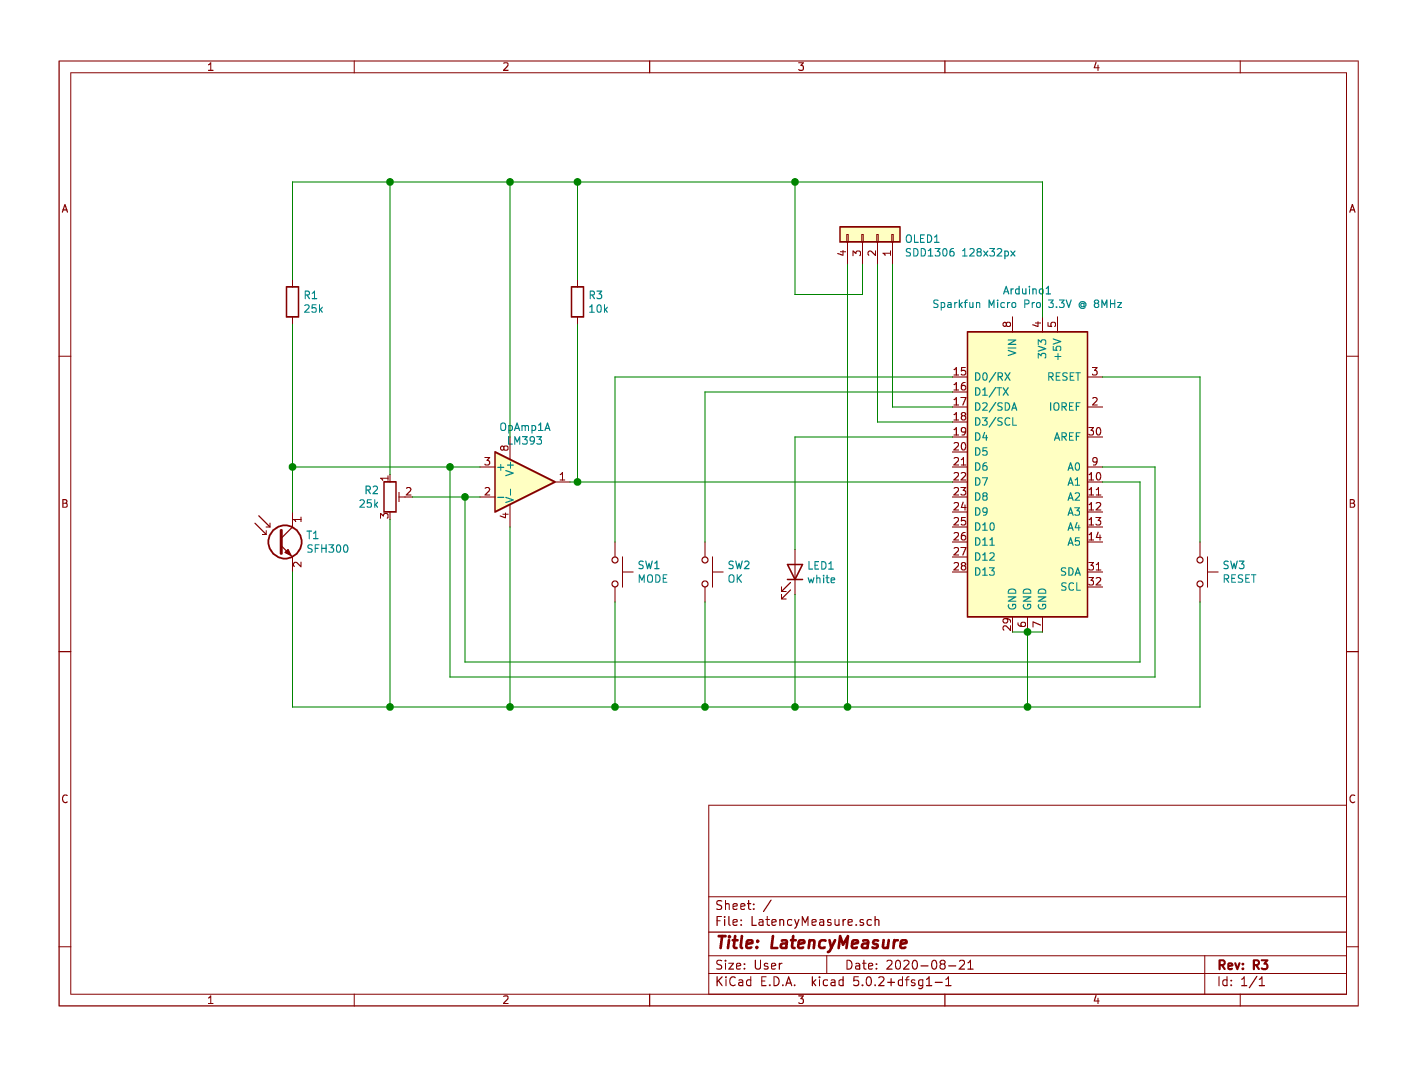
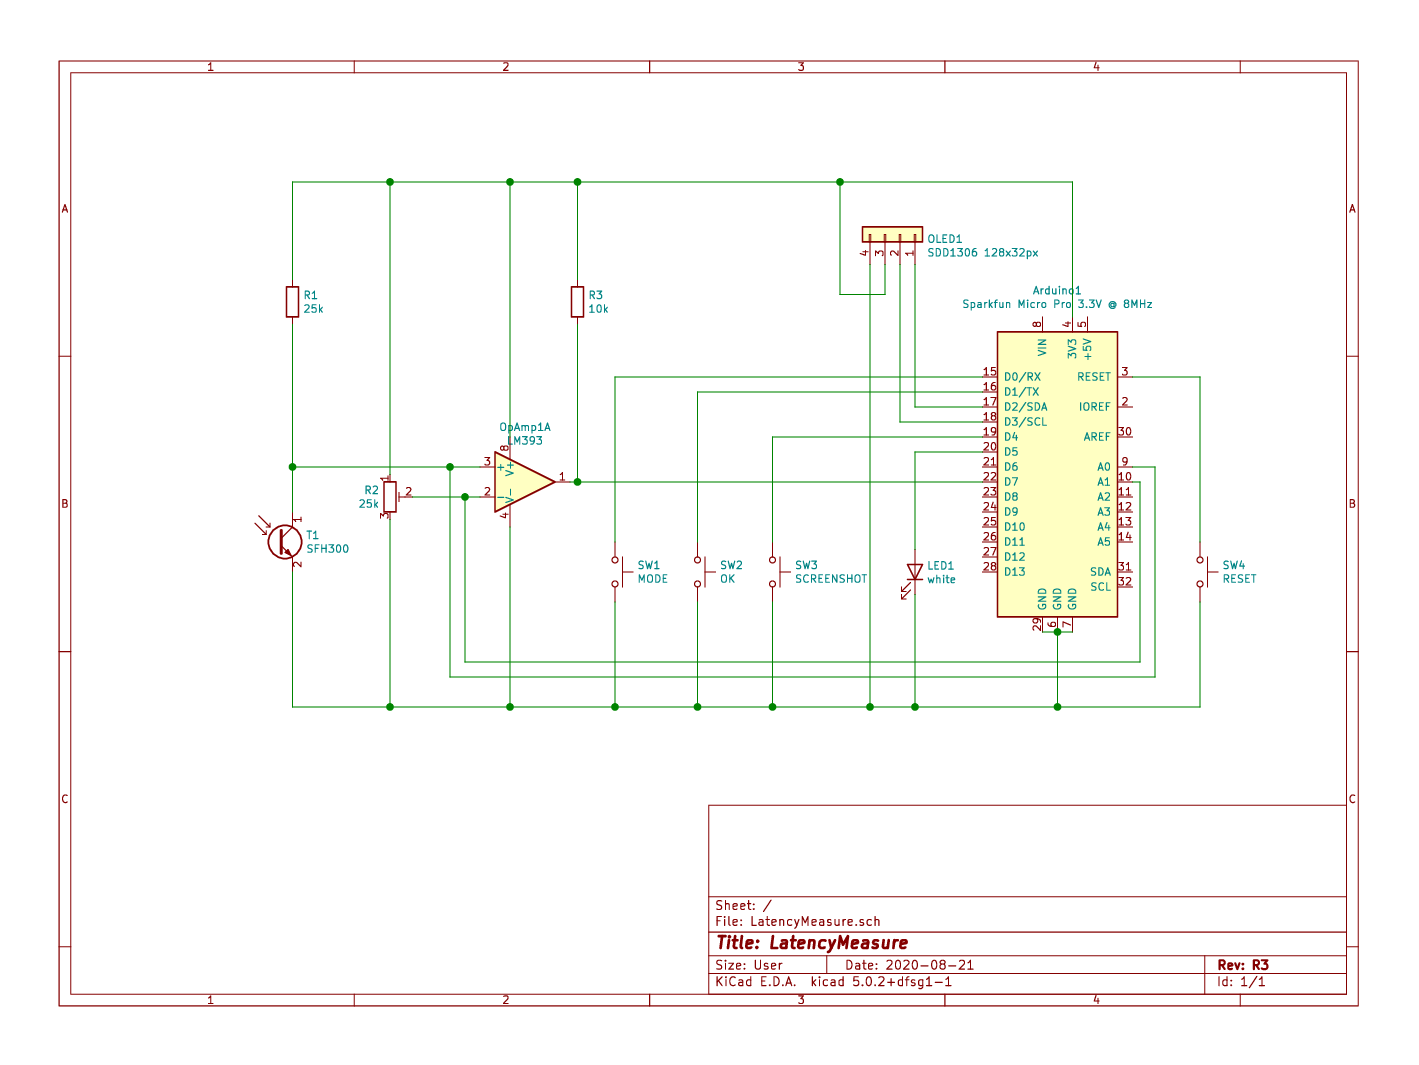
swapped pins 4 and 5 (Test Timing LED and Screenshot button)

Changed region(s): [[0.4961, 0.1859, 0.8062, 0.6197]]

diff --git a/LatencyMeasure/common.h b/LatencyMeasure/common.h
@@ -61,7 +61,7 @@
 #define PIN_IN_BTNMODE    0
 #define PIN_IN_BTNOK      1
 #if FEATURE_SCREENSHOT
-#define PIN_IN_SCREENSHOT 5
+#define PIN_IN_SCREENSHOT 4
 #endif
 
 /*
@@ -74,7 +74,7 @@
 /*
 **  pin for the calibration LED
 */
-#define PIN_OUT_LED     4
+#define PIN_OUT_LED       5
 
 
 /*
